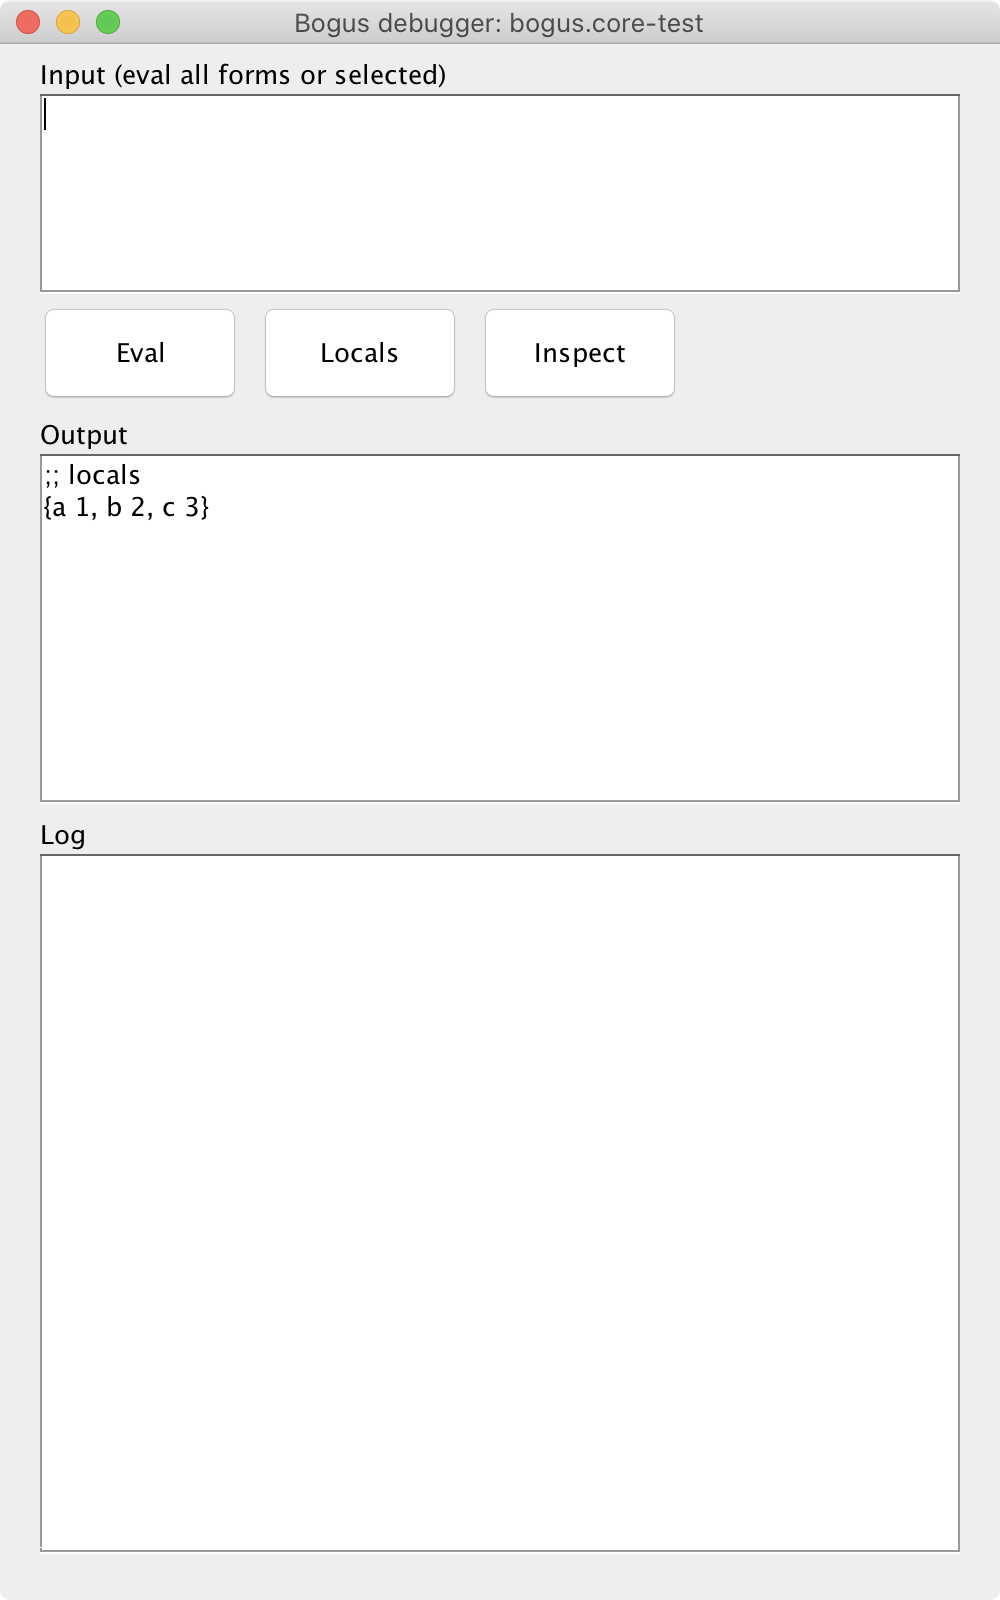
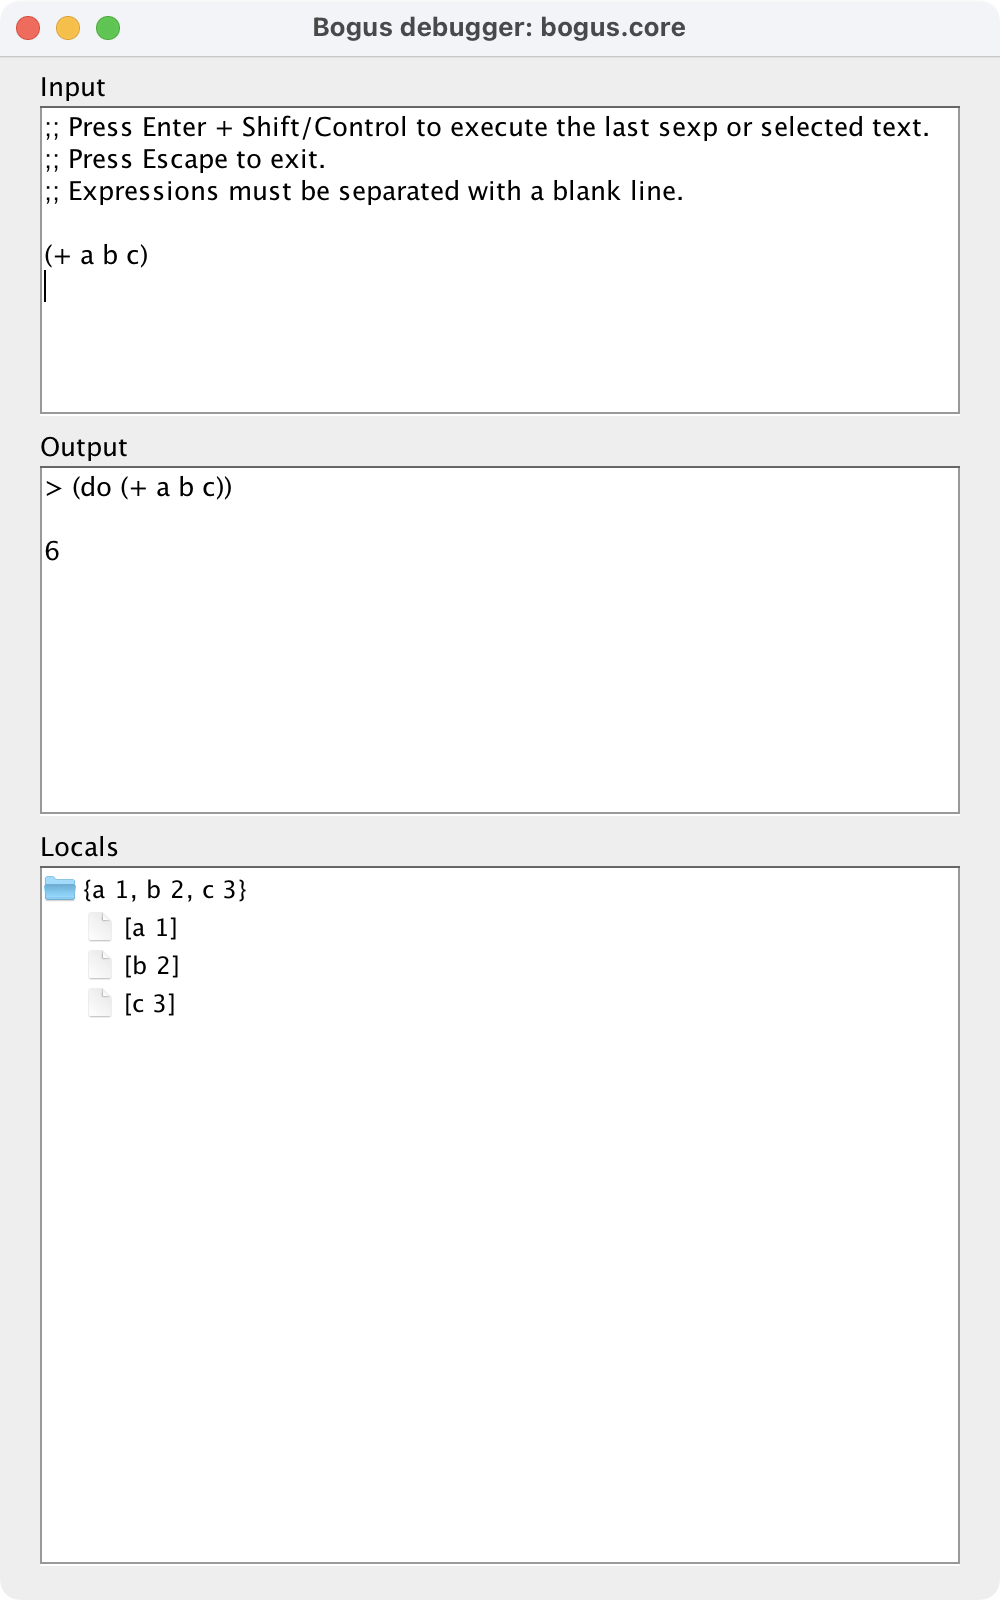
various updates

diff --git a/README.md b/README.md
@@ -96,19 +96,8 @@ In the input code, you can use any local variables as they're global ones. In th
 example above we've executed the `(+ a b c)` form referencing local `a`, `b`,
 and `c` from the `let` clause.
 
-The "Locals" button pretty-prints the local variables. Bogus does it in advance
-when the window opens the first time. The "Inspect" button opens the standard
-`clojure.inspector/inspect-tree` widget rendering the locals. This is quite
-useful when examining massive chunks of data.
-
-![](img/screen3.png)
-
-The Log area tracks the history of the expressions you executed and their
-results. That's useful sometimes to copy-paste it somewhere. Should you get an
-exception, it gets rendered with the `clojure.stacktrace/print-stack-trace`
-function (which probably needs some improvements).
-
-![](img/screen4.png)
+In the bottom of the form, there is a widget with pretty-printed local
+variables.
 
 You can have several debug breakpoints, for example:
 
@@ -229,4 +218,8 @@ details.
 
 ## Other
 
-Copyright &copy; 2022 Ivan Grishaev
+~~~
+©©©©©©©©©©©©©©©©©©©©©©©©©©©©©©©©©©
+Ivan Grishaev, 2022. © UNLICENSE ©
+©©©©©©©©©©©©©©©©©©©©©©©©©©©©©©©©©©
+~~~

diff --git a/CHANGELOG.md b/CHANGELOG.md
@@ -1,0 +1,6 @@
+
+# 2025-07-30
+
+- change license to UNLICENSE
+- update pictures in readme
+- add code samples into commented section
